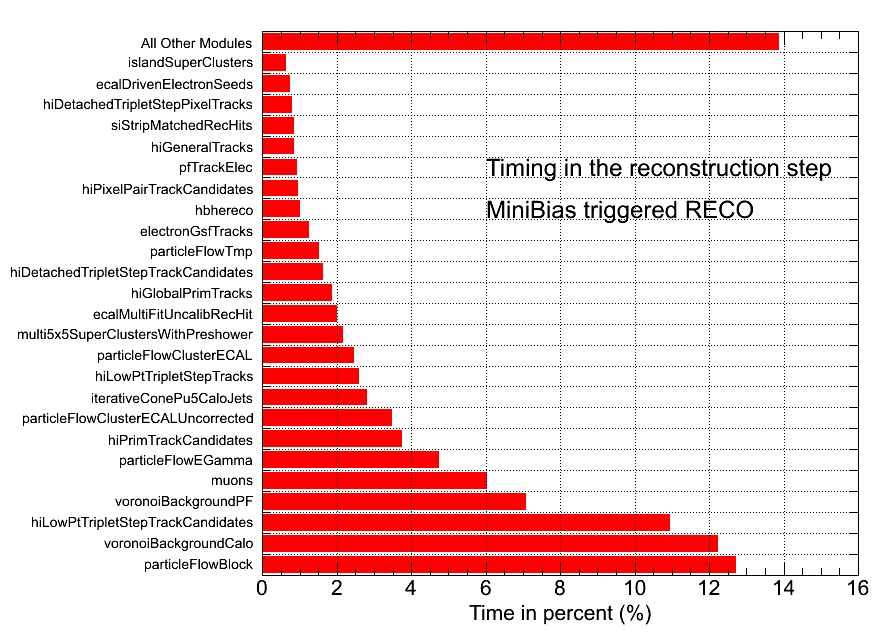
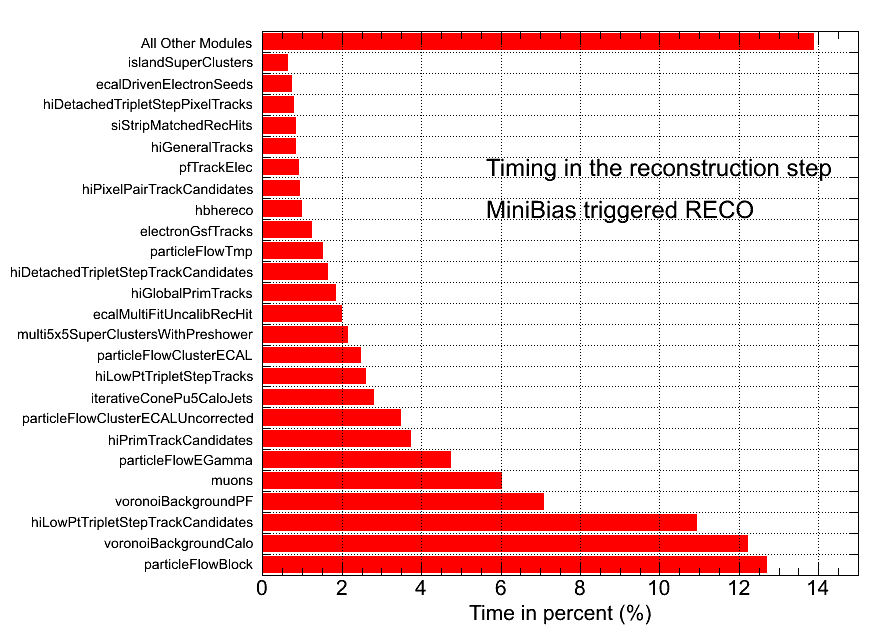
reco update

diff --git a/reco/timing/mbbarplot.C b/reco/timing/mbbarplot.C
@@ -99,7 +99,7 @@ double percent[nx];
    h0->GetYaxis()->SetTitleOffset(1.1);
    h0->GetYaxis()->CenterTitle();
    h0->SetTickLength(0.01);
-   h0->SetMaximum(16);  
+   h0->SetMaximum(15);  
    //h0->GetXaxis()->SetUserRange(-0.5, 29.5);
 
    TCanvas *c1 = new TCanvas("c1","c1",880,660);
